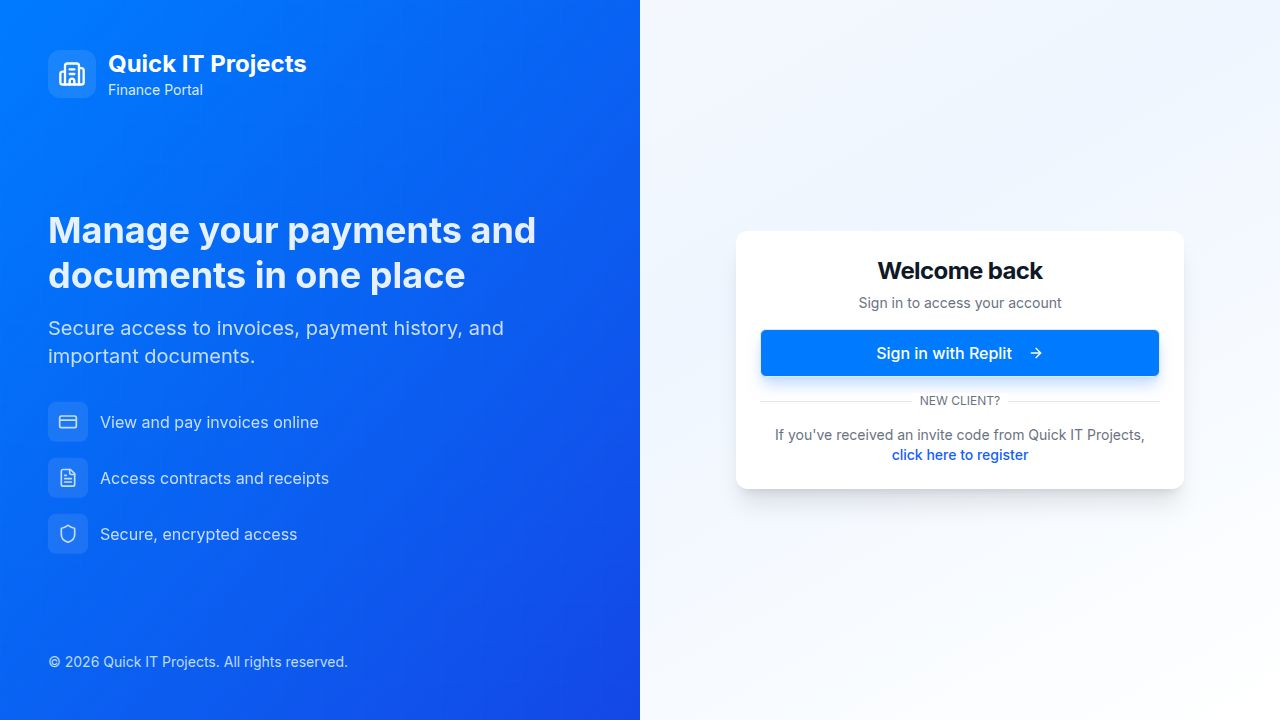
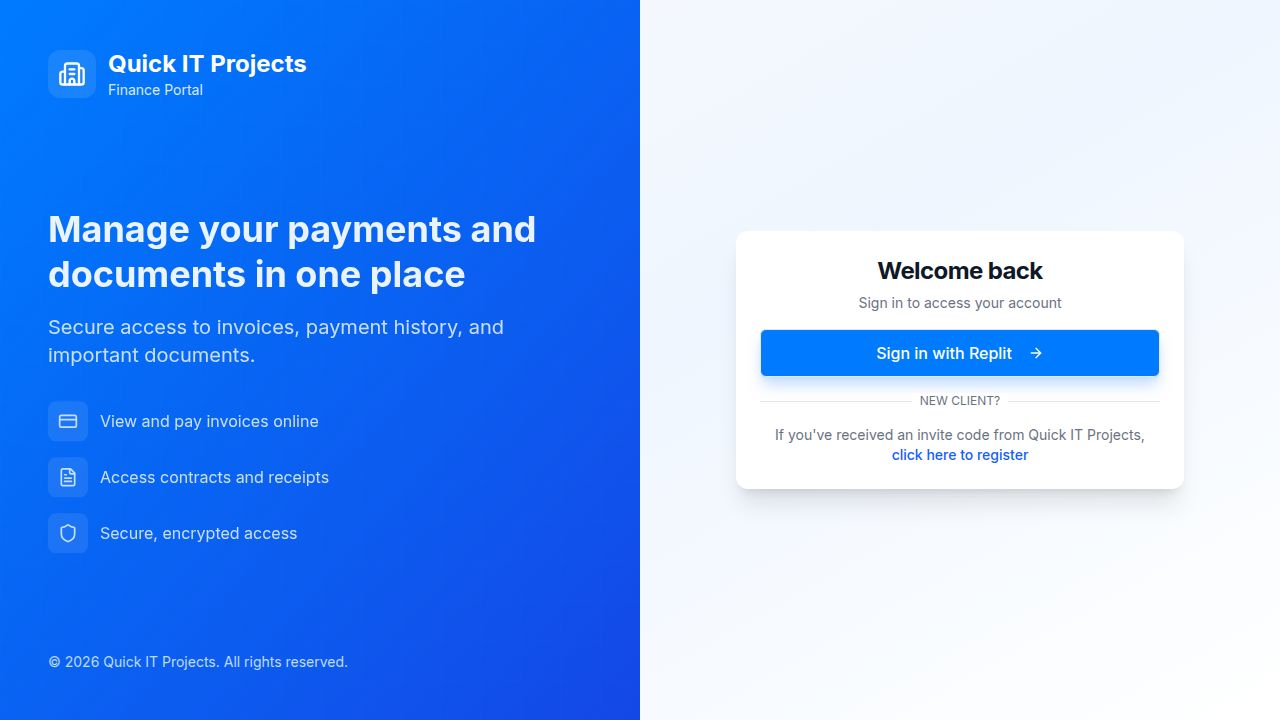
Add financial overview and client details with interactive modals
Integrates Dialog components for displaying payment and client details, refactors client filtering, and introduces state management for modal interactions within the admin dashboard.

Replit-Commit-Author: Agent
Replit-Commit-Session-Id: aadfc205-d336-4831-8e96-5727d8b23cbe
Replit-Commit-Checkpoint-Type: full_checkpoint
Replit-Commit-Event-Id: 8c39da45-f275-436b-b77b-f5b7abd95f52
Replit-Commit-Screenshot-Url: https://storage.googleapis.com/screenshot-production-us-central1/55294787-0b14-4f33-8971-a9de7f340fb0/aadfc205-d336-4831-8e96-5727d8b23cbe/H7T7WMf
Replit-Helium-Checkpoint-Created: true

diff --git a/client/src/pages/admin/Dashboard.tsx b/client/src/pages/admin/Dashboard.tsx
@@ -2,12 +2,17 @@ import { Layout } from "@/components/Layout";
 import { Card, CardContent, CardHeader, CardTitle } from "@/components/ui/card";
 import { Select, SelectContent, SelectItem, SelectTrigger, SelectValue } from "@/components/ui/select";
 import { Badge } from "@/components/ui/badge";
-import { DollarSign, Users, AlertCircle, Clock, Loader2 } from "lucide-react";
+import { Dialog, DialogContent, DialogHeader, DialogTitle, DialogDescription } from "@/components/ui/dialog";
+import { Table, TableBody, TableCell, TableHead, TableHeader, TableRow } from "@/components/ui/table";
+import { DollarSign, Users, AlertCircle, Clock, Loader2, ExternalLink } from "lucide-react";
 import { useAdminStats, useAdminPayments, useAdminClients, formatCents, formatDate } from "@/lib/api";
-import { useMutation, useQueryClient } from "@tanstack/react-query";
+import { useMutation, useQueryClient, useQuery } from "@tanstack/react-query";
 import { toast } from "sonner";
+import { useState } from "react";
+import { Link } from "wouter";
 
 type PaymentStatus = "pending" | "posted" | "confirmed" | "rejected";
+type ModalType = "collected" | "outstanding" | "clients" | null;
 
 const statusConfig: Record<PaymentStatus, { label: string; color: string; bgColor: string }> = {
   pending: { label: "Pending", color: "text-yellow-700", bgColor: "bg-yellow-50 border-yellow-200" },
@@ -21,6 +26,11 @@ export default function AdminDashboard() {
   const { data: payments, isLoading: paymentsLoading } = useAdminPayments();
   const { data: clients } = useAdminClients();
   const queryClient = useQueryClient();
+  const [openModal, setOpenModal] = useState<ModalType>(null);
+
+  const { data: billingItems = [] } = useQuery<any[]>({
+    queryKey: ["/api/admin/billing-items"],
+  });
 
   const updateStatusMutation = useMutation({
     mutationFn: async ({ paymentId, status }: { paymentId: string; status: string }) => {
@@ -59,10 +69,38 @@ export default function AdminDashboard() {
   }
 
   // Filter to only show payments from active/behind clients (exclude paused/inactive)
-  const activeClientIds = new Set(
-    clients?.filter(c => c.status === "active" || c.status === "behind").map(c => c.clientId) || []
-  );
+  const activeClients = clients?.filter(c => c.status === "active" || c.status === "behind") || [];
+  const activeClientIds = new Set(activeClients.map(c => c.clientId));
   const recentPayments = payments?.filter(p => activeClientIds.has(p.clientId)).slice(0, 10) || [];
+
+  // Data for modals
+  const confirmedPayments = payments?.filter(p => 
+    activeClientIds.has(p.clientId) && p.status === "confirmed"
+  ) || [];
+
+  // Calculate outstanding per client (billing items - confirmed payments)
+  const clientOutstandingData = activeClients.map(client => {
+    const clientBills = billingItems.filter((item: any) => 
+      item.clientId === client.clientId && item.status === "active"
+    );
+    const billingTotal = clientBills.reduce((sum: number, item: any) => sum + (item.amountCents || 0), 0);
+    
+    const clientConfirmed = payments?.filter(p => 
+      p.clientId === client.clientId && p.status === "confirmed"
+    ) || [];
+    const paymentsTotal = clientConfirmed.reduce((sum, p) => sum + p.amountCents, 0);
+    
+    const balance = paymentsTotal - billingTotal; // Negative = owes
+    return {
+      client,
+      billingTotal,
+      paymentsTotal,
+      balance,
+      billingItems: clientBills,
+    };
+  }).filter(c => c.balance < 0); // Only show clients who owe money
+
+  const activeOnlyClients = clients?.filter(c => c.status === "active") || [];
 
   return (
     <Layout role="admin">
@@ -73,7 +111,11 @@ export default function AdminDashboard() {
         </div>
 
         <div className="grid gap-4 md:grid-cols-2 lg:grid-cols-3">
-          <Card className="shadow-sm hover:shadow-md transition-shadow">
+          <Card 
+            className="shadow-sm hover:shadow-md transition-shadow cursor-pointer hover:ring-2 hover:ring-green-200"
+            onClick={() => setOpenModal("collected")}
+            data-testid="card-total-collected"
+          >
             <CardHeader className="flex flex-row items-center justify-between space-y-0 pb-2">
               <CardTitle className="text-sm font-medium text-gray-500">
                 Total Collected
@@ -85,12 +127,16 @@ export default function AdminDashboard() {
                 {stats ? formatCents(stats.totalCollectedCents) : '$0.00'}
               </div>
               <p className="text-xs text-gray-500 mt-1">
-                Confirmed payments only
+                Confirmed payments only • Click to view
               </p>
             </CardContent>
           </Card>
 
-          <Card className="shadow-sm hover:shadow-md transition-shadow border-l-4 border-l-orange-500">
+          <Card 
+            className="shadow-sm hover:shadow-md transition-shadow border-l-4 border-l-orange-500 cursor-pointer hover:ring-2 hover:ring-orange-200"
+            onClick={() => setOpenModal("outstanding")}
+            data-testid="card-outstanding"
+          >
             <CardHeader className="flex flex-row items-center justify-between space-y-0 pb-2">
               <CardTitle className="text-sm font-medium text-gray-500">
                 Outstanding Balance
@@ -102,12 +148,16 @@ export default function AdminDashboard() {
                 {stats ? formatCents(stats.outstandingCents) : '$0.00'}
               </div>
               <p className="text-xs text-gray-500 mt-1">
-                Total owed by active clients
+                Total owed by active clients • Click to view
               </p>
             </CardContent>
           </Card>
 
-          <Card className="shadow-sm hover:shadow-md transition-shadow">
+          <Card 
+            className="shadow-sm hover:shadow-md transition-shadow cursor-pointer hover:ring-2 hover:ring-blue-200"
+            onClick={() => setOpenModal("clients")}
+            data-testid="card-active-clients"
+          >
             <CardHeader className="flex flex-row items-center justify-between space-y-0 pb-2">
               <CardTitle className="text-sm font-medium text-gray-500">
                 Active Clients
@@ -119,7 +169,7 @@ export default function AdminDashboard() {
                 {stats?.activeClients || 0}
               </div>
               <p className="text-xs text-gray-500 mt-1">
-                {stats?.activeClients === 0 ? 'No clients yet' : 'Total active clients'}
+                {stats?.activeClients === 0 ? 'No clients yet' : 'Click to view list'}
               </p>
             </CardContent>
           </Card>
@@ -219,6 +269,145 @@ export default function AdminDashboard() {
           </CardContent>
         </Card>
       </div>
+
+      {/* Total Collected Modal */}
+      <Dialog open={openModal === "collected"} onOpenChange={() => setOpenModal(null)}>
+        <DialogContent className="max-w-2xl max-h-[80vh] overflow-y-auto">
+          <DialogHeader>
+            <DialogTitle className="flex items-center gap-2">
+              <DollarSign className="h-5 w-5 text-green-500" />
+              Total Collected: {formatCents(stats?.totalCollectedCents || 0)}
+            </DialogTitle>
+            <DialogDescription>
+              {confirmedPayments.length} confirmed payment(s) from active clients
+            </DialogDescription>
+          </DialogHeader>
+          {confirmedPayments.length > 0 ? (
+            <Table>
+              <TableHeader>
+                <TableRow>
+                  <TableHead>Client</TableHead>
+                  <TableHead>Date</TableHead>
+                  <TableHead>Method</TableHead>
+                  <TableHead className="text-right">Amount</TableHead>
+                </TableRow>
+              </TableHeader>
+              <TableBody>
+                {confirmedPayments.map(payment => (
+                  <TableRow key={payment.paymentId}>
+                    <TableCell className="font-medium">{getClientName(payment.clientId)}</TableCell>
+                    <TableCell>{formatDate(payment.paidAt || payment.createdAt)}</TableCell>
+                    <TableCell>{payment.method}</TableCell>
+                    <TableCell className="text-right font-medium text-green-600">
+                      {formatCents(payment.amountCents)}
+                    </TableCell>
+                  </TableRow>
+                ))}
+              </TableBody>
+            </Table>
+          ) : (
+            <div className="text-center py-8 text-gray-500">No confirmed payments yet.</div>
+          )}
+        </DialogContent>
+      </Dialog>
+
+      {/* Outstanding Balance Modal */}
+      <Dialog open={openModal === "outstanding"} onOpenChange={() => setOpenModal(null)}>
+        <DialogContent className="max-w-3xl max-h-[80vh] overflow-y-auto">
+          <DialogHeader>
+            <DialogTitle className="flex items-center gap-2">
+              <AlertCircle className="h-5 w-5 text-orange-500" />
+              Outstanding Balance: {formatCents(stats?.outstandingCents || 0)}
+            </DialogTitle>
+            <DialogDescription>
+              {clientOutstandingData.length} client(s) with outstanding balances
+            </DialogDescription>
+          </DialogHeader>
+          {clientOutstandingData.length > 0 ? (
+            <div className="space-y-4">
+              {clientOutstandingData.map(({ client, billingTotal, paymentsTotal, balance, billingItems: clientBills }) => (
+                <div key={client.clientId} className="border rounded-lg p-4">
+                  <div className="flex items-center justify-between mb-2">
+                    <a href={`/admin/clients/${client.clientId}`} className="font-medium text-blue-600 hover:underline flex items-center gap-1">
+                        {client.displayName}
+                        <ExternalLink className="h-3 w-3" />
+                      </a>
+                    <span className="font-bold text-red-600">{formatCents(balance)}</span>
+                  </div>
+                  <div className="text-sm text-gray-500 space-y-1">
+                    <div className="flex justify-between">
+                      <span>Billing Items Total:</span>
+                      <span>{formatCents(billingTotal)}</span>
+                    </div>
+                    <div className="flex justify-between">
+                      <span>Confirmed Payments:</span>
+                      <span className="text-green-600">-{formatCents(paymentsTotal)}</span>
+                    </div>
+                    {clientBills.length > 0 && (
+                      <div className="mt-2 pt-2 border-t">
+                        <span className="text-xs font-medium text-gray-400">Active billing items:</span>
+                        {clientBills.map((item: any) => (
+                          <div key={item.id} className="flex justify-between text-xs mt-1">
+                            <span>{item.title}</span>
+                            <span>{formatCents(item.amountCents)}</span>
+                          </div>
+                        ))}
+                      </div>
+                    )}
+                  </div>
+                </div>
+              ))}
+            </div>
+          ) : (
+            <div className="text-center py-8 text-gray-500">No outstanding balances.</div>
+          )}
+        </DialogContent>
+      </Dialog>
+
+      {/* Active Clients Modal */}
+      <Dialog open={openModal === "clients"} onOpenChange={() => setOpenModal(null)}>
+        <DialogContent className="max-w-2xl max-h-[80vh] overflow-y-auto">
+          <DialogHeader>
+            <DialogTitle className="flex items-center gap-2">
+              <Users className="h-5 w-5 text-blue-500" />
+              Active Clients: {activeOnlyClients.length}
+            </DialogTitle>
+            <DialogDescription>
+              List of all active clients
+            </DialogDescription>
+          </DialogHeader>
+          {activeOnlyClients.length > 0 ? (
+            <Table>
+              <TableHeader>
+                <TableRow>
+                  <TableHead>Name</TableHead>
+                  <TableHead>Email</TableHead>
+                  <TableHead>Status</TableHead>
+                  <TableHead></TableHead>
+                </TableRow>
+              </TableHeader>
+              <TableBody>
+                {activeOnlyClients.map(client => (
+                  <TableRow key={client.clientId}>
+                    <TableCell className="font-medium">{client.displayName}</TableCell>
+                    <TableCell>{client.email || '-'}</TableCell>
+                    <TableCell>
+                      <Badge className="bg-green-100 text-green-700">Active</Badge>
+                    </TableCell>
+                    <TableCell>
+                      <a href={`/admin/clients/${client.clientId}`} className="text-blue-600 hover:underline text-sm flex items-center gap-1">
+                        View <ExternalLink className="h-3 w-3" />
+                      </a>
+                    </TableCell>
+                  </TableRow>
+                ))}
+              </TableBody>
+            </Table>
+          ) : (
+            <div className="text-center py-8 text-gray-500">No active clients yet.</div>
+          )}
+        </DialogContent>
+      </Dialog>
     </Layout>
   );
 }